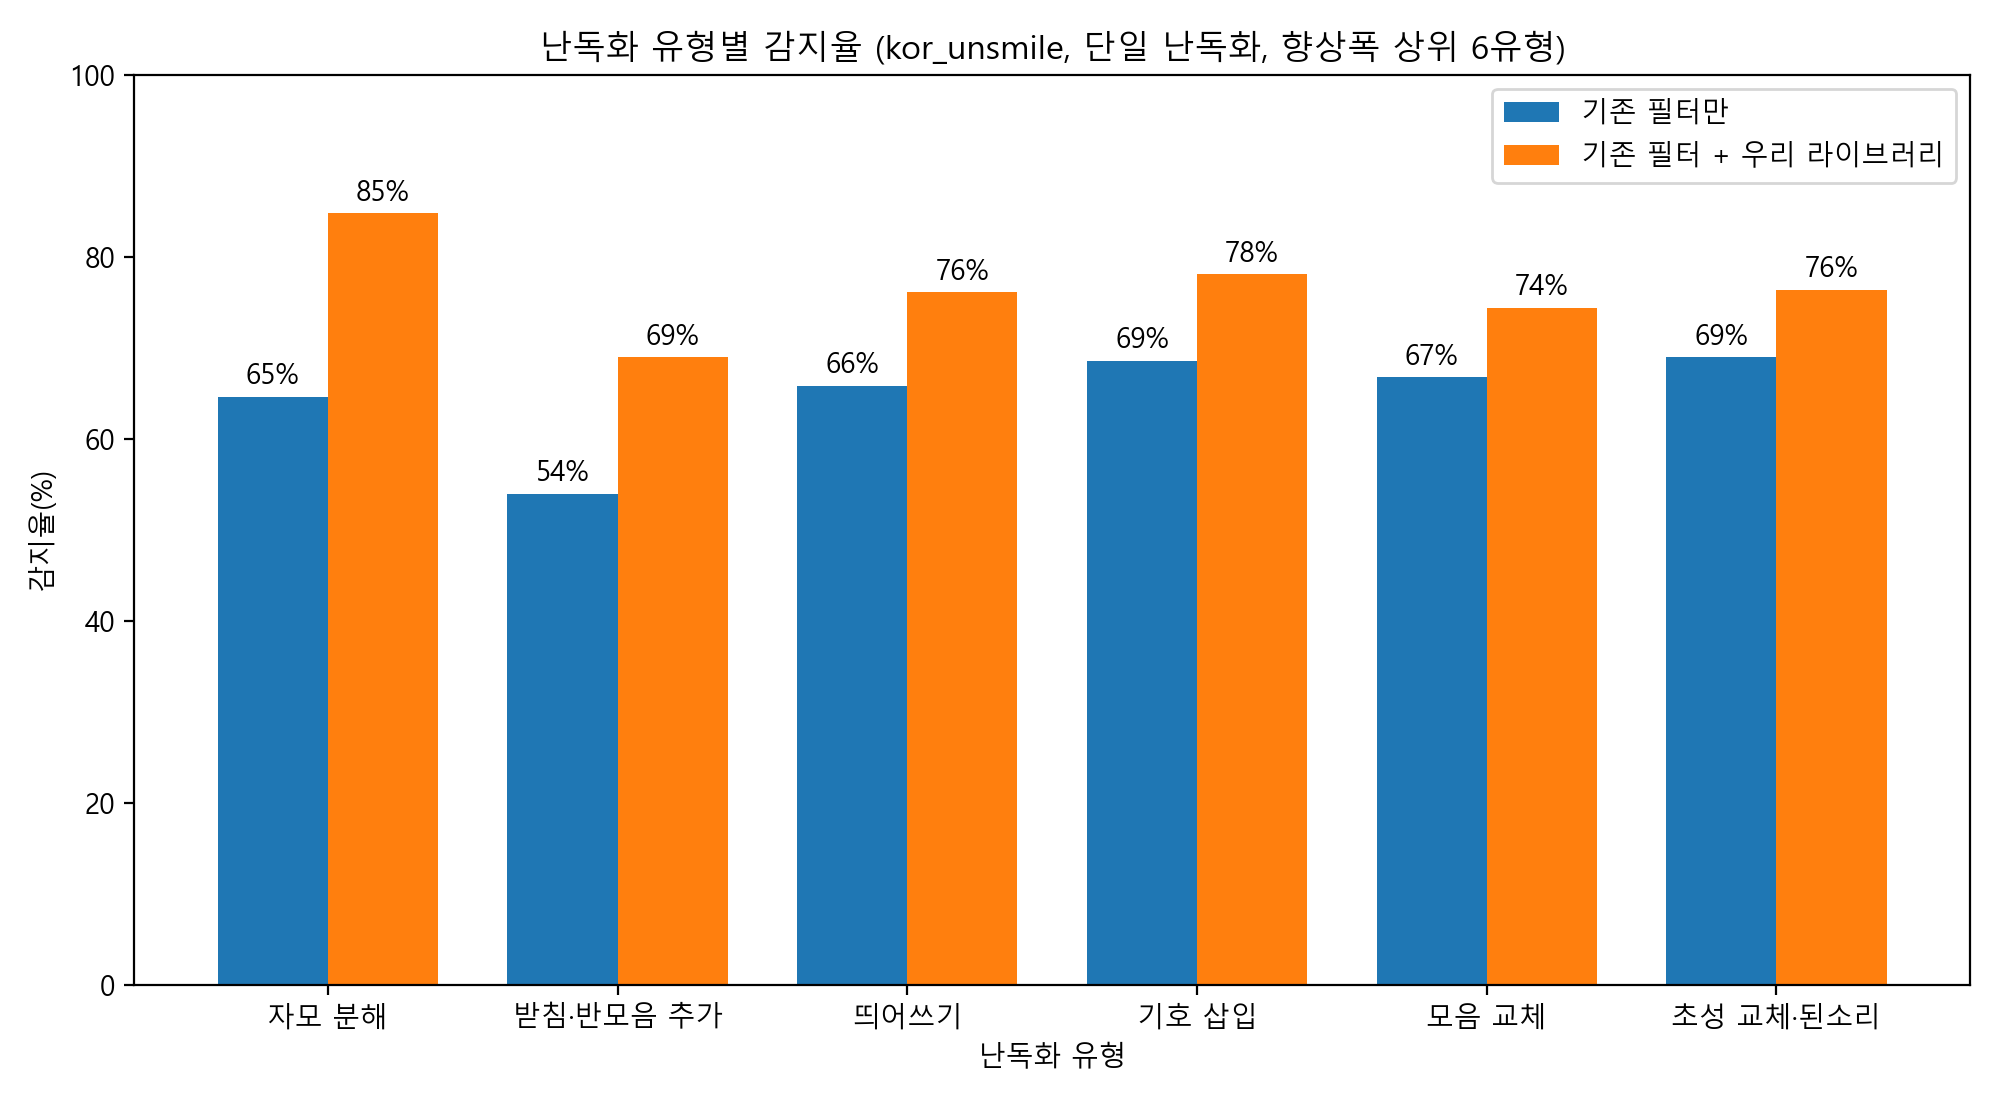
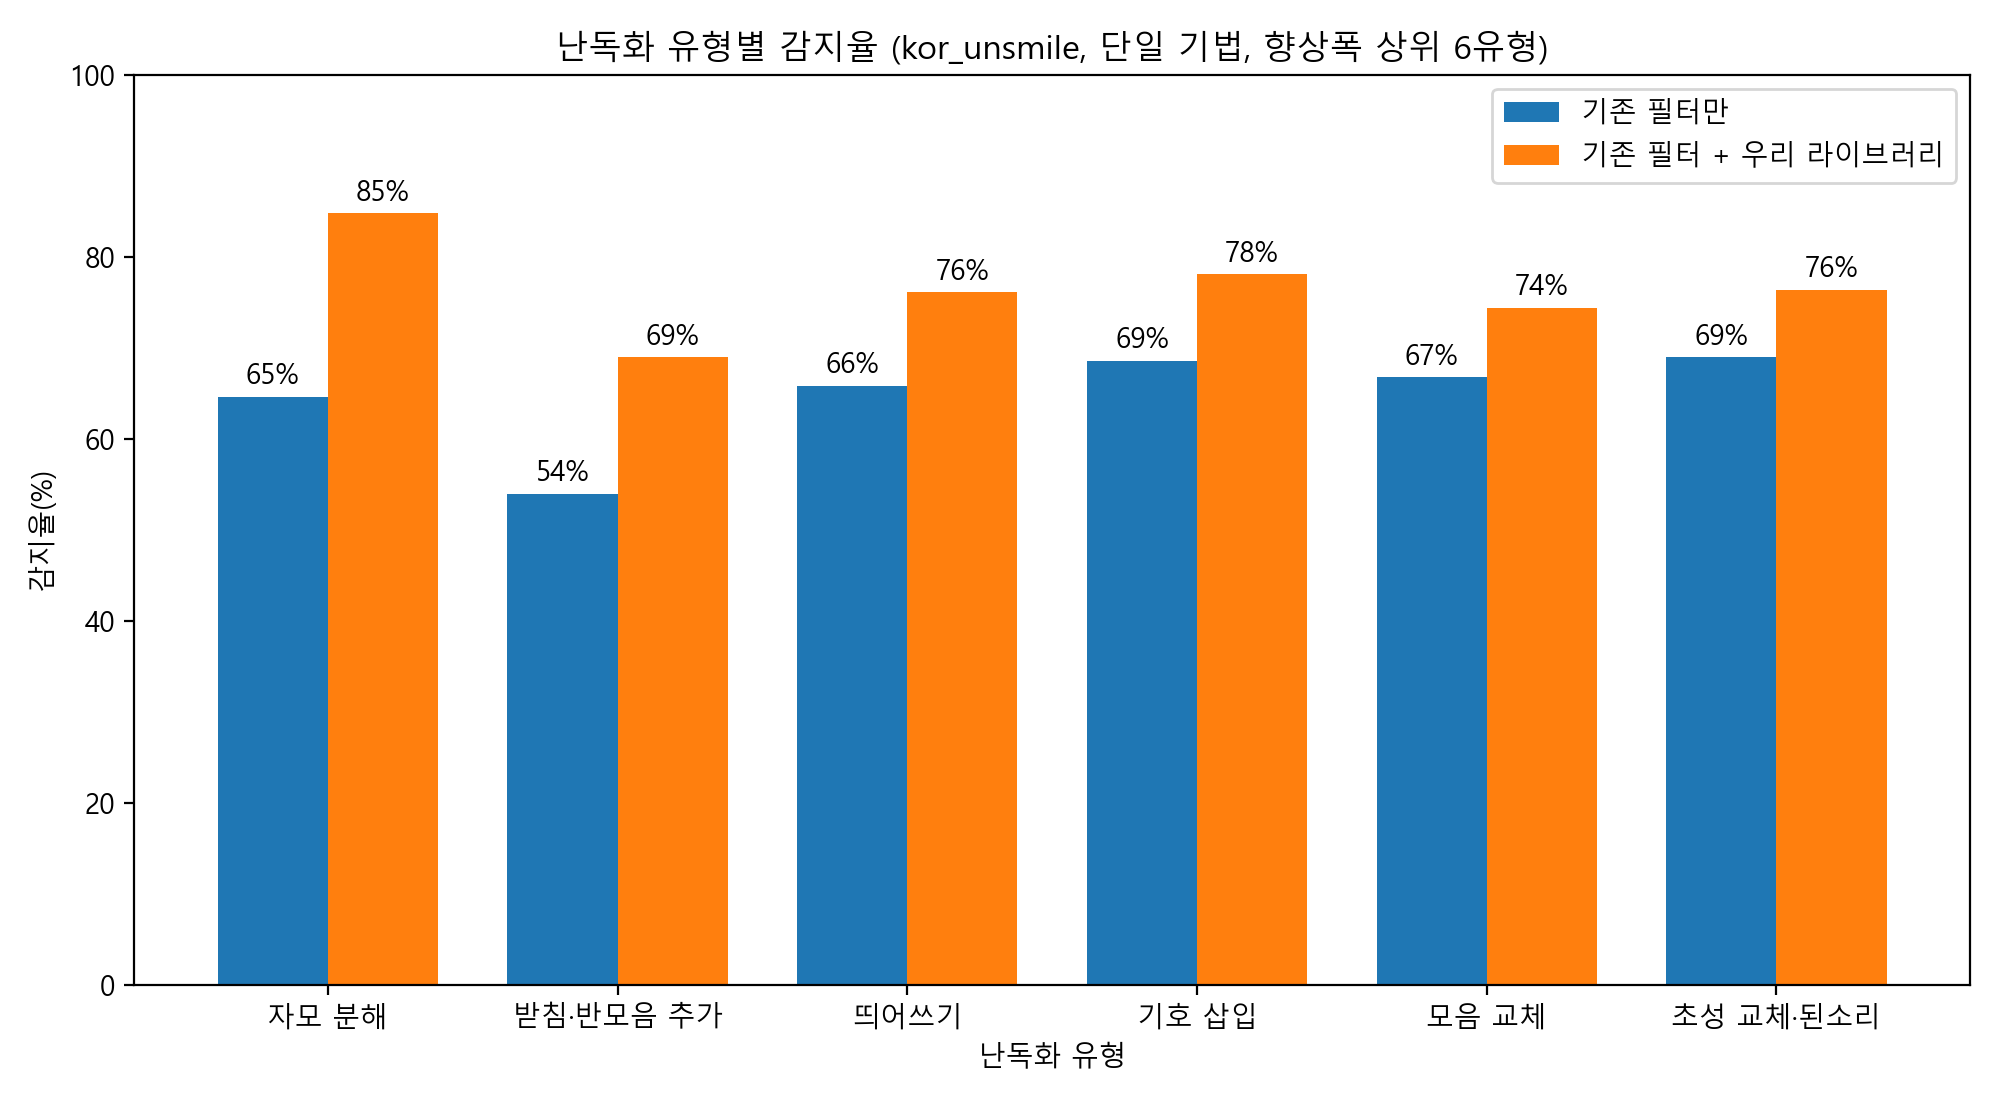
docs(guardrail): P05 슬라이드 표기를 '단일 기법'·'복합 기법'으로 통일

Changed region(s): [[0.279, 0.0309, 0.775, 0.0618]]

diff --git a/guardrail/exp/p05_profanity/make_slides.py b/guardrail/exp/p05_profanity/make_slides.py
@@ -37,7 +37,7 @@ RUNS = {  # (필터, 데이터) -> (단독 run, 복원기 run)
     ("korcen", "single"): ("p05.1-korcen", "p05.3-korcen-restored"),
     ("korcen", "d2"): ("p05.9-korcen-compose", "p05.11-korcen-compose-restored"),
 }
-DATA = {"single": "단일 난독화", "d1": "복합 난독화 · 데이터셋 1", "d2": "복합 난독화 · 데이터셋 2"}
+DATA = {"single": "단일 기법", "d1": "복합 기법 · 데이터셋 1", "d2": "복합 기법 · 데이터셋 2"}
 
 
 def load(run: str) -> dict:
@@ -91,7 +91,7 @@ def grouped(categories, lo, hi, title, xlabel, name, rot=0):
 def slide1() -> dict:
     keys = list(RUNS)
     vals = {k: detect(*RUNS[k])["all"] for k in keys}
-    short = {"single": "단일", "d1": "복합 1", "d2": "복합 2"}
+    short = {"single": "단일 기법", "d1": "복합 기법 1", "d2": "복합 기법 2"}
     grouped([f"{f}\n{short[d]}" for f, d in keys], [vals[k][0] for k in keys], [vals[k][1] for k in keys],
             "난독화된 욕설 감지율", "필터 · 데이터셋", "slide_1_detection.png")
     return vals
@@ -102,7 +102,7 @@ def slide2() -> dict:
     ns = sorted(k for k in d if d[k][2] > 100)
     xs = [int(k.split("=")[1]) for k in ns]
     lo, hi = [d[k][0] for k in ns], [d[k][1] for k in ns]
-    grouped([f"{x}개" for x in xs], lo, hi, "복합 난독화 기법 수별 감지율 (kor_unsmile, 데이터셋 1)", "한 문장에 적용한 기법 수",
+    grouped([f"{x}개" for x in xs], lo, hi, "복합 기법 수별 감지율 (kor_unsmile, 데이터셋 1)", "한 문장에 적용한 기법 수",
             "slide_2_mixed.png")
     return {"ns": xs, "lo": lo, "hi": hi}
 
@@ -112,7 +112,7 @@ def slide3() -> dict:
     order = sorted(d, key=lambda k: -(d[k][1] - d[k][0]))
     top = order[:6]
     grouped([NAME[k] for k in top], [d[k][0] for k in top], [d[k][1] for k in top],
-            "난독화 유형별 감지율 (kor_unsmile, 단일 난독화, 향상폭 상위 6유형)", "난독화 유형", "slide_3_by_type.png")
+            "난독화 유형별 감지율 (kor_unsmile, 단일 기법, 향상폭 상위 6유형)", "난독화 유형", "slide_3_by_type.png")
     return {k: d[k] for k in order}
 
 
@@ -150,10 +150,10 @@ def text(v1, v2, v3) -> str:
 ## 공통: 데이터셋 설명 (첫 결과 슬라이드나 부록에 한 번)
 
 - **평가 문장**: 공개 커뮤니티 댓글 욕설 데이터(Curse-detection, 5,825문장 중 욕설 2,044문장)
-- **단일 난독화**: 욕설 문장마다 난독화 기법 하나씩 적용(24개 기법)
-- **복합 난독화**: 한 문장에 난독화 기법 여러 개를 동시에 적용한 것(예: 된소리 + 받침 추가 + 기호 삽입)
-- **복합 난독화 · 데이터셋 1**: 한 문장에 기법 1~4개를 적용. 우리 라이브러리가 복원하도록 설계된 9개 유형만 사용
-- **복합 난독화 · 데이터셋 2**: 한 문장에 기법 2~4개를 적용. 복원 범위 밖의 모양 바꾸기(야민정음·닮은 외국문자 등)까지 포함한 더 현실적인 조건
+- **단일 기법**: 욕설 문장마다 난독화 기법 하나씩 적용(24개 기법)
+- **복합 기법**: 한 문장에 난독화 기법 여러 개를 동시에 적용한 것(예: 된소리 + 받침 추가 + 기호 삽입)
+- **복합 기법 · 데이터셋 1**: 한 문장에 기법 1~4개를 적용. 우리 라이브러리가 복원하도록 설계된 9개 유형만 사용
+- **복합 기법 · 데이터셋 2**: 한 문장에 기법 2~4개를 적용. 복원 범위 밖의 모양 바꾸기(야민정음·닮은 외국문자 등)까지 포함한 더 현실적인 조건
 - **우리 라이브러리 적용 방식**: 기존 필터는 그대로 두고, 원문과 복원문을 둘 다 검사해 하나라도 걸리면 차단
 - **기존 필터**: kor_unsmile(공개 ML 분류기), korcen(공개 규칙 기반 필터)
 
@@ -161,20 +161,20 @@ def text(v1, v2, v3) -> str:
 
 - 제목: **우리 라이브러리를 붙이면 난독화된 욕설을 더 잡는다**
 - 한 줄 설명: 난독화된 욕설 중 차단된 비율. 기존 필터는 바꾸지 않고 옆에 붙이기만 했다
-- 말할 거리: kor_unsmile 기준 단일 난독화 {u('single')}, 데이터셋 1 {u('d1')}, 데이터셋 2 {u('d2')}
+- 말할 거리: kor_unsmile 기준 단일 기법 {u('single')}, 데이터셋 1 {u('d1')}, 데이터셋 2 {u('d2')}
 - 각주: 정상 문장을 욕설로 잘못 막는 비율은 거의 그대로(kor_unsmile {f1:.1f}% → {f2:.1f}%)
 
 ## 슬라이드 2 — `slide_2_mixed.png`
 
 - 제목: **기법을 겹칠수록 기존 필터는 무너지고, 우리 라이브러리와의 차이는 벌어진다**
-- 한 줄 설명: kor_unsmile, 한 문장에 적용한 난독화 기법 수별 감지율(복합 난독화 데이터셋 1)
+- 한 줄 설명: kor_unsmile, 한 문장에 적용한 난독화 기법 수별 감지율(복합 기법 데이터셋 1)
 - 말할 거리: 기법 4개를 겹치면 기존 필터는 {v2['lo'][-1]:.0f}%만 잡지만, 우리 라이브러리를 붙이면 {v2['hi'][-1]:.0f}%(+{v2['hi'][-1] - v2['lo'][-1]:.0f}%p)
 - 각주: 데이터셋 2(복원 범위 밖 유형 포함)에서도 +12~14%p 차이 유지
 
 ## 슬라이드 3 — `slide_3_by_type.png`
 
 - 제목: **가장 크게 되찾는 난독화 유형**
-- 한 줄 설명: kor_unsmile, 난독화 유형별 감지율(단일 난독화, 향상폭 상위 6유형)
+- 한 줄 설명: kor_unsmile, 난독화 유형별 감지율(단일 기법, 향상폭 상위 6유형)
 - 말할 거리: 자모 분해(ㅅ ㅣ ㅂ ㅏ ㄹ 식) {t[0][1][0]:.0f}% → {t[0][1][1]:.0f}%, 받침·반모음 추가 {t[1][1][0]:.0f}% → {t[1][1][1]:.0f}%
 - 각주: 나머지 유형은 {rest}. 초성체는 현재 복원 범위 밖, 닮은 외국문자·야민정음·음절 늘이기는 경계(복원 여부 미정)
 

diff --git a/guardrail/reports/figures/p05/slides_text.md b/guardrail/reports/figures/p05/slides_text.md
@@ -6,10 +6,10 @@
 ## 공통: 데이터셋 설명 (첫 결과 슬라이드나 부록에 한 번)
 
 - **평가 문장**: 공개 커뮤니티 댓글 욕설 데이터(Curse-detection, 5,825문장 중 욕설 2,044문장)
-- **단일 난독화**: 욕설 문장마다 난독화 기법 하나씩 적용(24개 기법)
-- **복합 난독화**: 한 문장에 난독화 기법 여러 개를 동시에 적용한 것(예: 된소리 + 받침 추가 + 기호 삽입)
-- **복합 난독화 · 데이터셋 1**: 한 문장에 기법 1~4개를 적용. 우리 라이브러리가 복원하도록 설계된 9개 유형만 사용
-- **복합 난독화 · 데이터셋 2**: 한 문장에 기법 2~4개를 적용. 복원 범위 밖의 모양 바꾸기(야민정음·닮은 외국문자 등)까지 포함한 더 현실적인 조건
+- **단일 기법**: 욕설 문장마다 난독화 기법 하나씩 적용(24개 기법)
+- **복합 기법**: 한 문장에 난독화 기법 여러 개를 동시에 적용한 것(예: 된소리 + 받침 추가 + 기호 삽입)
+- **복합 기법 · 데이터셋 1**: 한 문장에 기법 1~4개를 적용. 우리 라이브러리가 복원하도록 설계된 9개 유형만 사용
+- **복합 기법 · 데이터셋 2**: 한 문장에 기법 2~4개를 적용. 복원 범위 밖의 모양 바꾸기(야민정음·닮은 외국문자 등)까지 포함한 더 현실적인 조건
 - **우리 라이브러리 적용 방식**: 기존 필터는 그대로 두고, 원문과 복원문을 둘 다 검사해 하나라도 걸리면 차단
 - **기존 필터**: kor_unsmile(공개 ML 분류기), korcen(공개 규칙 기반 필터)
 
@@ -17,20 +17,20 @@
 
 - 제목: **우리 라이브러리를 붙이면 난독화된 욕설을 더 잡는다**
 - 한 줄 설명: 난독화된 욕설 중 차단된 비율. 기존 필터는 바꾸지 않고 옆에 붙이기만 했다
-- 말할 거리: kor_unsmile 기준 단일 난독화 66% → 75%, 데이터셋 1 54% → 71%, 데이터셋 2 62% → 75%
+- 말할 거리: kor_unsmile 기준 단일 기법 66% → 75%, 데이터셋 1 54% → 71%, 데이터셋 2 62% → 75%
 - 각주: 정상 문장을 욕설로 잘못 막는 비율은 거의 그대로(kor_unsmile 12.5% → 13.0%)
 
 ## 슬라이드 2 — `slide_2_mixed.png`
 
 - 제목: **기법을 겹칠수록 기존 필터는 무너지고, 우리 라이브러리와의 차이는 벌어진다**
-- 한 줄 설명: kor_unsmile, 한 문장에 적용한 난독화 기법 수별 감지율(복합 난독화 데이터셋 1)
+- 한 줄 설명: kor_unsmile, 한 문장에 적용한 난독화 기법 수별 감지율(복합 기법 데이터셋 1)
 - 말할 거리: 기법 4개를 겹치면 기존 필터는 46%만 잡지만, 우리 라이브러리를 붙이면 66%(+20%p)
 - 각주: 데이터셋 2(복원 범위 밖 유형 포함)에서도 +12~14%p 차이 유지
 
 ## 슬라이드 3 — `slide_3_by_type.png`
 
 - 제목: **가장 크게 되찾는 난독화 유형**
-- 한 줄 설명: kor_unsmile, 난독화 유형별 감지율(단일 난독화, 향상폭 상위 6유형)
+- 한 줄 설명: kor_unsmile, 난독화 유형별 감지율(단일 기법, 향상폭 상위 6유형)
 - 말할 거리: 자모 분해(ㅅ ㅣ ㅂ ㅏ ㄹ 식) 65% → 85%, 받침·반모음 추가 54% → 69%
 - 각주: 나머지 유형은 닮은 외국문자 +6.9%p, 초성체 +6.2%p, 연음 +5.8%p, 소리 나는 대로 +4.1%p, 받침 교체 +3.4%p, 음절 늘이기 +2.2%p, 야민정음 +1.6%p. 초성체는 현재 복원 범위 밖, 닮은 외국문자·야민정음·음절 늘이기는 경계(복원 여부 미정)
 
